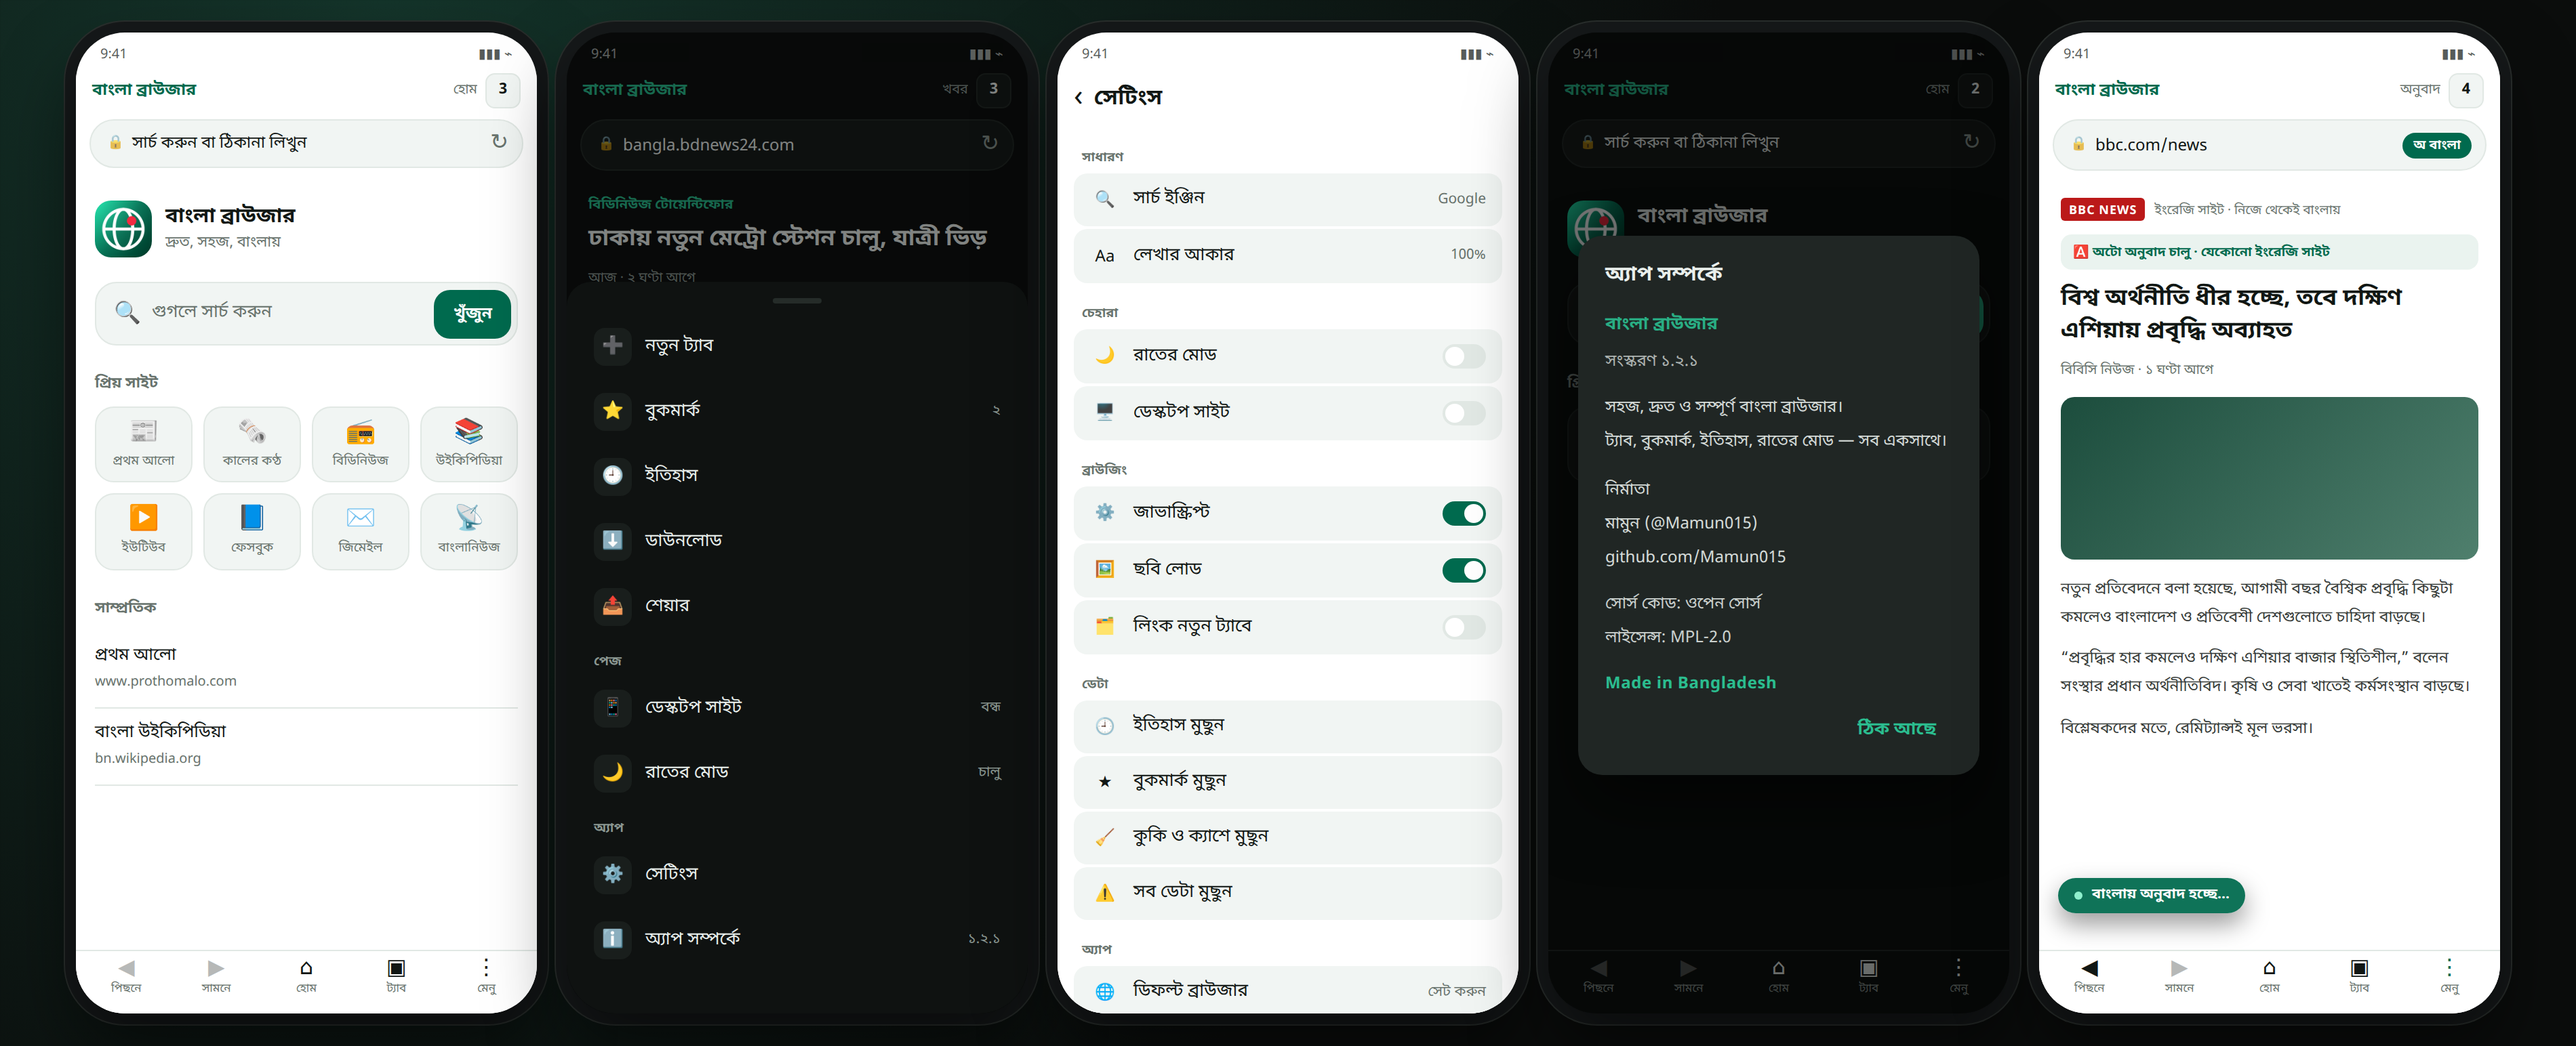
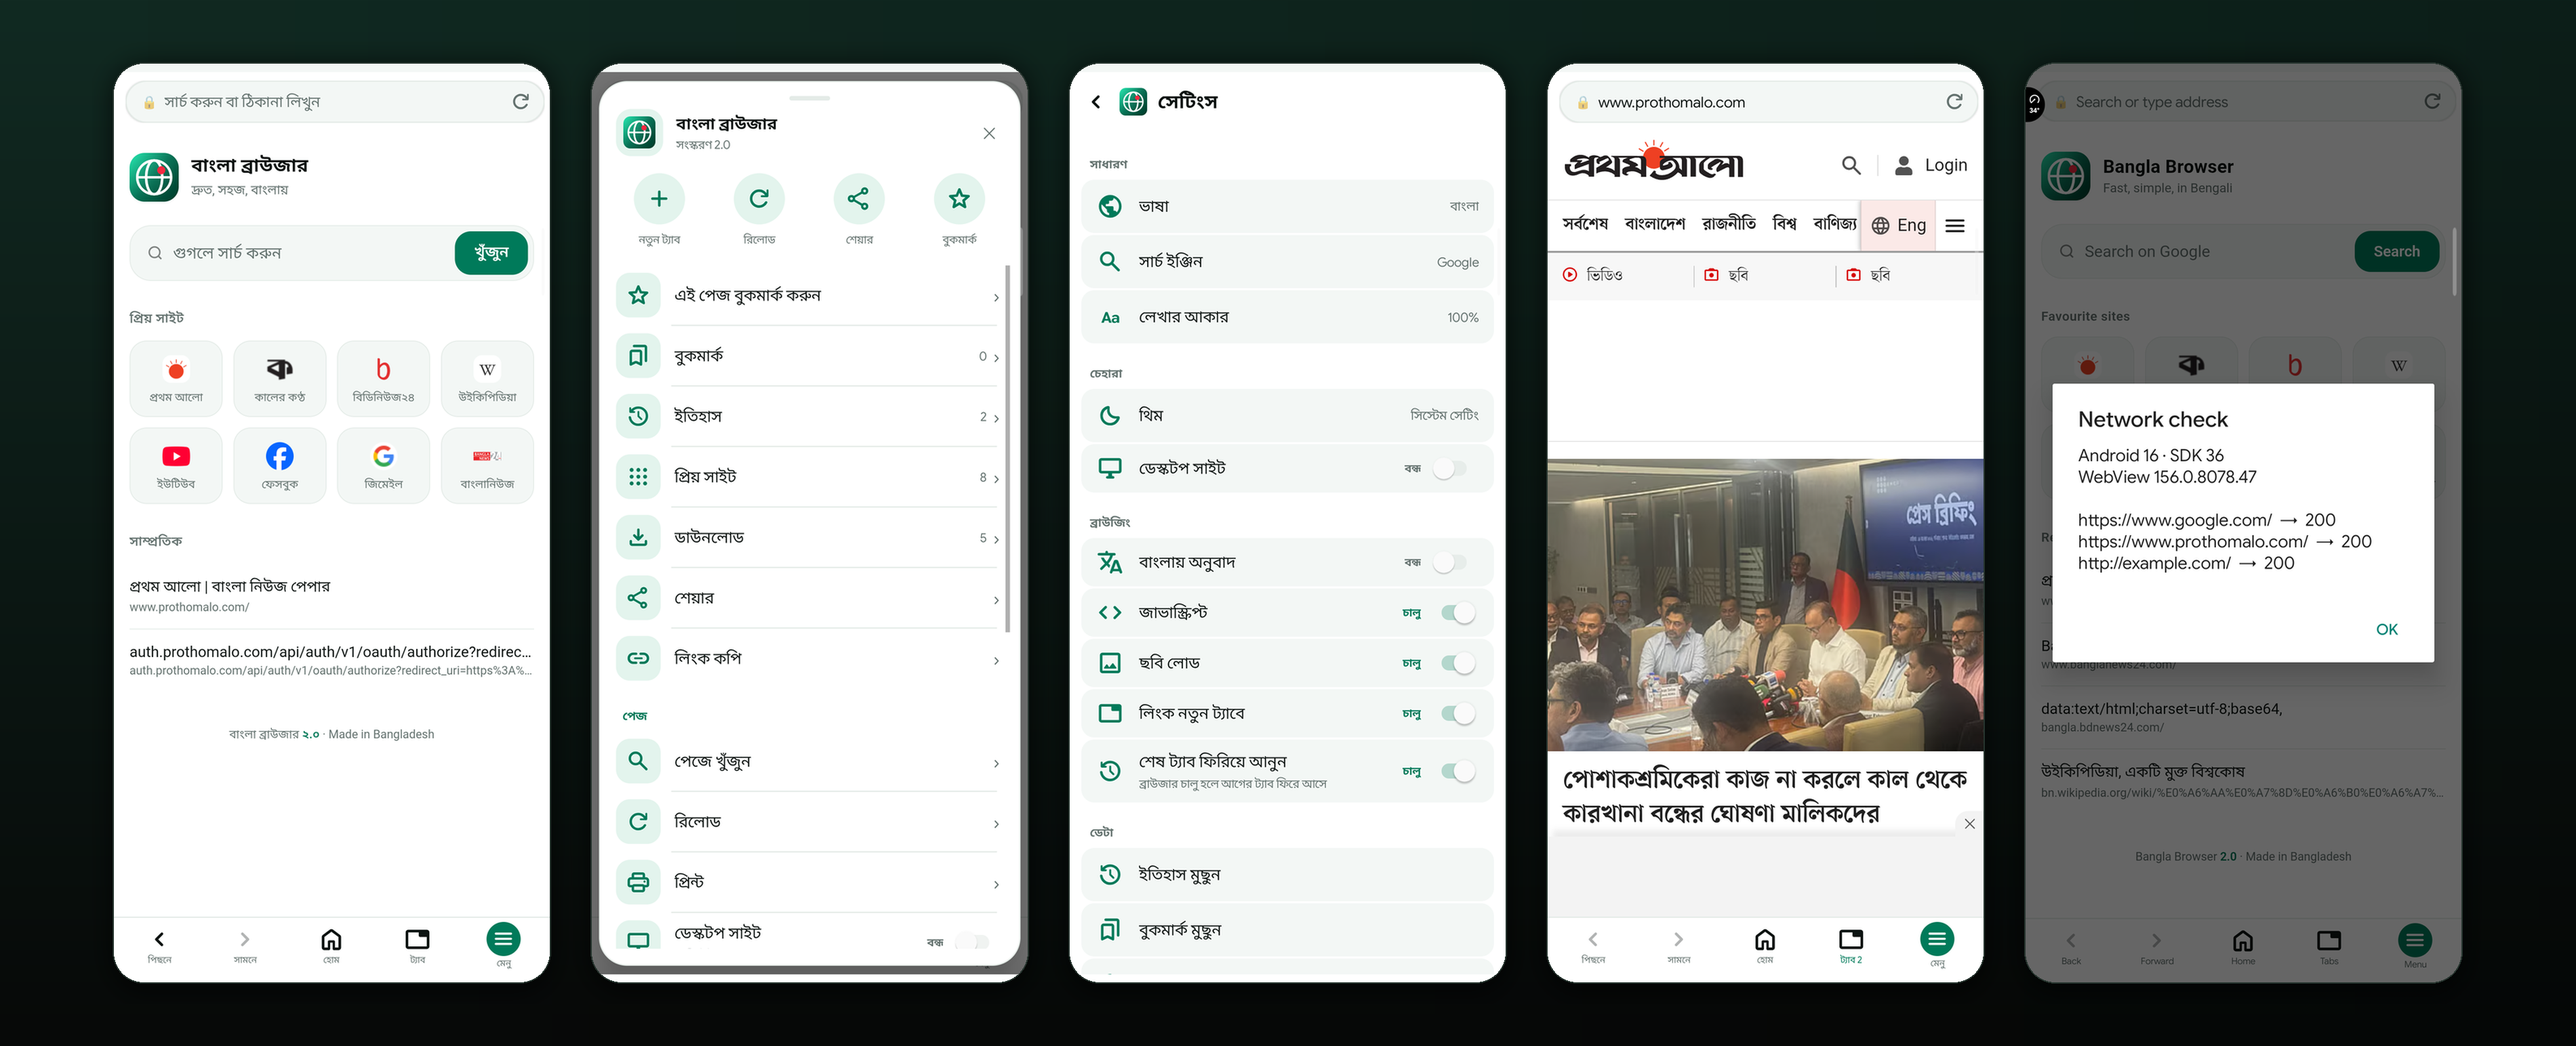
docs(site): ২.০-এর নতুন স্ক্রিনশট — হোম, মেনু, সেটিংস, প্রথম আলো, নেটওয়ার্ক পরীক্ষা
- পুরোনো বিল্ডের ছবি বাদ, পাঁচটা নতুন ২.০ স্ক্রিনশট
- og:image ও README-র কম্পোজিট ছবি নতুন করে বানানো

diff --git a/docs/index.html b/docs/index.html
@@ -328,14 +328,13 @@
   <section id="screenshots">
     <div class="wrap">
       <h2>অ্যাপের ভেতরে</h2>
-      <p class="sub">হোম পেজ, মেনু, সেটিংস, অটো অনুবাদ আর নতুন নেটওয়ার্ক পরীক্ষা — এক নজরে।</p>
+      <p class="sub">২.০-এর আসল স্ক্রিনশট — হোম পেজ, নতুন মেনু, সেটিংস, প্রথম আলো আর নেটওয়ার্ক পরীক্ষা।</p>
       <div class="shots">
-        <img src="shot-1.png" alt="বাংলা ব্রাউজারের হোম পেজ" loading="lazy">
-        <img src="shot-2.png" alt="নিচ থেকে ওঠা মেনু" loading="lazy">
-        <img src="shot-3.png" alt="সেটিংস স্ক্রিন" loading="lazy">
-        <img src="shot-4.png" alt="অ্যাপ সম্পর্কে ডায়ালগ" loading="lazy">
-        <img src="shot-5.png" alt="ইংরেজি সাইট বাংলায় অনুবাদ হয়ে দেখাচ্ছে" loading="lazy">
-        <img src="shot-6.png" alt="নেটওয়ার্ক পরীক্ষা — Android, WebView আর তিনটি সাইটের ফল" loading="lazy">
+        <img src="shot-1.png?v=20" alt="বাংলা ব্রাউজারের হোম পেজ — প্রিয় সাইট ও সাম্প্রতিক" loading="lazy">
+        <img src="shot-2.png?v=20" alt="নিচ থেকে ওঠা মেনু — বোল্ড আইকন আর সরু রেখা" loading="lazy">
+        <img src="shot-3.png?v=20" alt="সেটিংস — চালু/বন্ধ লেখা সুইচ" loading="lazy">
+        <img src="shot-4.png?v=20" alt="প্রথম আলোর পাতা বাংলা ব্রাউজারে" loading="lazy">
+        <img src="shot-6.png?v=20" alt="নেটওয়ার্ক পরীক্ষা — Android, WebView আর তিনটি সাইটের ফল" loading="lazy">
       </div>
       <p class="cap">বাংলা ব্রাউজার ২.০ · Android · ছোট স্ক্রিনে পাশে সোয়াইপ করো</p>
     </div>

diff --git a/docs/release-notes-2.0.md b/docs/release-notes-2.0.md
@@ -1,3 +1,8 @@
+<p align="center">
+  <img src="https://github.com/Mamun015/bangla-browser/releases/download/v2.0/shot-1.png" width="240" alt="হোম পেজ">
+  <img src="https://github.com/Mamun015/bangla-browser/releases/download/v2.0/shot-6.png" width="240" alt="নেটওয়ার্ক পরীক্ষা">
+</p>
+
 # বাংলা ব্রাউজার ২.০
 
 এটা এখন পর্যন্ত সবচেয়ে বড় আপডেট — অ্যাড্রেস বারে সাজেশন, নতুন চেহারা, আর সাইট খোলার পথে যে জায়গাগুলোতে আটকে যেত সেগুলো সারানো।
